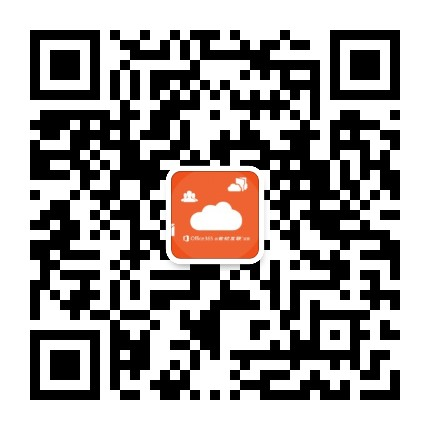
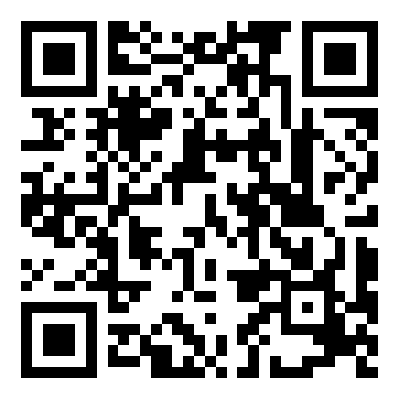
Release v0.1.7: refresh account wording and privacy assets

diff --git a/src/M365Tool.UI/Assets/privacy.html b/src/M365Tool.UI/Assets/privacy.html
@@ -312,7 +312,7 @@
         <div class="eyebrow">Privacy Policy</div>
         <h1>隐私政策</h1>
         <p class="subtitle">本政策说明 21Vianet Office工具箱在账户验证、本地配置、WebView2 登录会话、日志和诊断信息方面的数据处理方式。我们坚持本地处理、最小必要和用户可控原则。</p>
-        <div class="updated">最后更新日期：2026 年 5 月 29 日</div>
+        <div class="updated">最后更新日期：2026 年 11 月 6 日</div>
       </div>
     </div>
 
@@ -323,7 +323,7 @@
           <li><a href="#overview">概述</a></li>
           <li><a href="#principles">一般原则</a></li>
           <li><a href="#data-we-process">我们处理哪些信息</a></li>
-          <li><a href="#login-webview2">21V 账户验证与 WebView2 登录说明</a></li>
+          <li><a href="#login-webview2">由世纪互联运营的Microsoft 365账户验证与 WebView2 登录说明</a></li>
           <li><a href="#local-storage">本地配置与缓存</a></li>
           <li><a href="#logs">日志与诊断信息</a></li>
           <li><a href="#retention">数据保存位置与期限</a></li>
@@ -337,7 +337,7 @@
       <article class="content">
         <section id="overview">
           <h2>概述</h2>
-          <p>感谢您选择使用 21Vianet Office工具箱（以下简称“本工具”）。本工具是一款面向 21Vianet / 21V Microsoft 365 运维场景的 Windows 桌面工具，用于辅助完成 Microsoft 365 Apps 安装、Office 卸载、更新频道切换、激活痕迹清理、Teams 常见问题处理、Outlook 诊断以及相关本地维护操作。</p>
+          <p>感谢您选择使用 21Vianet Office工具箱（以下简称“本工具”）。本工具是一款面向由世纪互联运营的Microsoft 365运维场景的 Windows 桌面工具，用于辅助完成 Microsoft 365 Apps 安装、Office 卸载、更新频道切换、激活痕迹清理、Teams 常见问题处理、Outlook 诊断以及相关本地维护操作。</p>
           <p>我们深知账户信息、登录状态和本地诊断数据对您至关重要。本隐私政策旨在说明本工具在使用过程中会处理哪些信息、出于何种目的处理这些信息、信息保存在哪里，以及我们不会收集或保存哪些敏感信息。</p>
           <p>请您在使用本工具前仔细阅读本隐私政策。如您继续使用本工具，即表示您已了解并接受本政策中说明的数据处理方式。</p>
         </section>
@@ -347,7 +347,7 @@
           <h3>什么是个人信息？</h3>
           <p>个人信息是指以电子或者其他方式记录的，与已识别或者可识别的自然人有关的各种信息。本工具可能涉及的个人信息包括账号标识、显示名称、头像缓存信息、验证时间、本地配置状态以及您主动导出的诊断日志中可能包含的设备或软件运行信息。</p>
           <h3>什么是处理？</h3>
-          <p>“处理”是指对个人信息进行的收集、存储、使用、加工、传输、提供、删除等操作。本工具对相关信息的处理主要发生在用户本机，用于完成 21V 账户验证状态展示、本地功能访问判断、界面语言偏好保存以及工具运行诊断。</p>
+          <p>“处理”是指对个人信息进行的收集、存储、使用、加工、传输、提供、删除等操作。本工具对相关信息的处理主要发生在用户本机，用于完成由世纪互联运营的Microsoft 365账户验证状态展示、本地功能访问判断、界面语言偏好保存以及工具运行诊断。</p>
           <h3>谁负责本工具？</h3>
           <p>本工具由项目维护者维护并发布。</p>
         </section>
@@ -374,10 +374,10 @@
             </div>
           </div>
           <h3>账户验证状态信息</h3>
-          <p>为确认用户是否已完成 21V 账户验证，并用于在界面中展示当前登录状态，本工具可能会在本机用户配置目录中保存以下最小化验证状态信息：</p>
+          <p>为确认用户是否已完成由世纪互联运营的Microsoft 365账户验证，并用于在界面中展示当前登录状态，本工具可能会在本机用户配置目录中保存以下最小化验证状态信息：</p>
           <ul>
             <li>界面语言设置；</li>
-            <li>是否已完成 21V 验证；</li>
+            <li>是否已完成由世纪互联运营的Microsoft 365账户验证；</li>
             <li>上次验证账号；</li>
             <li>用户显示名称；</li>
             <li>头像缓存信息；</li>
@@ -387,14 +387,14 @@
         </section>
 
         <section id="login-webview2">
-          <h2>21V 账户验证与 WebView2 登录说明</h2>
-          <p>在登录过程中，用户输入的账号、密码、多因素认证信息或其他登录凭据均由 Microsoft 21V 官方登录页面处理。本工具不会读取、拦截、记录或保存用户密码。</p>
+          <h2>由世纪互联运营的Microsoft 365账户验证与 WebView2 登录说明</h2>
+          <p>在登录过程中，用户输入的账号、密码、多因素认证信息或其他登录凭据均由世纪互联运营的Microsoft 365官方登录页面处理。本工具不会读取、拦截、记录或保存用户密码。</p>
           <h3>WebView2 会话数据</h3>
           <p>登录过程中，WebView2 运行时会在当前 Windows 用户的临时目录中创建独立的浏览器用户数据目录，用于承载 Microsoft 登录页面所需的 cookie、缓存和站点存储数据。</p>
           <p>为降低会话残留风险，本工具会在每次登录前清理 WebView2 会话数据，并在登录窗口关闭后尝试删除该临时目录。</p>
           <p>由于 Windows 文件占用、WebView2 运行时状态或系统权限等原因，临时目录删除可能存在延迟或失败。如发生此类情况，相关数据仍位于当前 Windows 用户本机环境中，不会由本工具主动上传。</p>
           <h3>登录完成后的本地状态保存</h3>
-          <p>登录完成后，本工具仅保存最小化的验证状态信息，用于界面展示和本地功能访问判断。保存内容包括界面语言、是否已完成 21V 验证、上次验证账号、显示名称、头像缓存信息以及验证时间。</p>
+          <p>登录完成后，本工具仅保存最小化的验证状态信息，用于界面展示和本地功能访问判断。保存内容包括界面语言、是否已完成由世纪互联运营的Microsoft 365账户验证、上次验证账号、显示名称、头像缓存信息以及验证时间。</p>
           <p>该配置文件不包含用户密码、access token、refresh token 或 Microsoft 登录 cookie。</p>
         </section>
 
@@ -437,14 +437,14 @@
           <ul>
             <li>用户主动将日志、截图、配置文件或诊断结果发送给支持人员、管理员或第三方；</li>
             <li>用户主动通过邮件、即时通讯工具或其他渠道提交问题信息；</li>
-            <li>Microsoft 21V 官方登录页面在认证过程中根据其自身机制处理登录请求、认证状态、cookie 或其他登录相关信息。</li>
+            <li>由世纪互联运营的Microsoft 365官方登录页面在认证过程中根据其自身机制处理登录请求、认证状态、cookie 或其他登录相关信息。</li>
           </ul>
-          <p>对于 Microsoft 21V 官方登录页面处理的数据，本工具无法控制其处理方式。相关数据处理应以 Microsoft 及 21Vianet 对应服务的隐私政策、服务条款和组织管理策略为准。</p>
+          <p>对于由世纪互联运营的Microsoft 365官方登录页面处理的数据，本工具无法控制其处理方式。相关数据处理应以 Microsoft 及世纪互联相关服务的隐私政策、服务条款和组织管理策略为准。</p>
         </section>
 
         <section id="security">
           <h2>数据安全</h2>
-          <p>本工具采取最小化保存和本地处理的方式，减少不必要的数据收集和传输。对于登录验证相关流程，本工具通过 Microsoft 21V 官方登录页面完成认证，不自行处理用户密码。</p>
+          <p>本工具采取最小化保存和本地处理的方式，减少不必要的数据收集和传输。对于登录验证相关流程，本工具通过由世纪互联运营的Microsoft 365官方登录页面完成认证，不自行处理用户密码。</p>
           <p>本工具会在登录前清理 WebView2 会话数据，并在登录窗口关闭后尝试删除登录过程中创建的临时浏览器用户数据目录，以降低 cookie、缓存和站点存储残留风险。</p>
           <p>但请注意，任何本地软件运行环境都可能受到操作系统权限、恶意软件、终端安全策略、文件占用、用户误操作或第三方工具影响。建议用户仅从可信来源下载本工具，并在受控测试环境中验证后再用于生产设备。</p>
         </section>

diff --git a/src/M365Tool.UI/WorkbenchSettingsControl.cs b/src/M365Tool.UI/WorkbenchSettingsControl.cs
@@ -262,8 +262,8 @@ namespace Office365CleanupTool
                 $"当前实际界面语言：{GetLanguageDisplay(LocalizationService.ResolveLanguage(_settings.LanguageMode))}",
                 $"Current UI language: {GetLanguageDisplay(LocalizationService.ResolveLanguage(_settings.LanguageMode))}");
             _lblValidationState.Text = T(
-                _settings.HasCurrentVerification ? "21V 门户验证：已通过" : "21V 门户验证：未通过",
-                _settings.HasCurrentVerification ? "21V verification: Passed" : "21V verification: Not passed");
+                _settings.HasCurrentVerification ? "账户验证：已通过" : "账户验证：未通过",
+                _settings.HasCurrentVerification ? "Account verification: Passed" : "Account verification: Not passed");
             WorkbenchUi.ApplyStatusStyle(
                 _lblValidationState,
                 _settings.HasCurrentVerification ? WorkbenchTone.Success : WorkbenchTone.Warning);
@@ -286,8 +286,8 @@ namespace Office365CleanupTool
                 "This tool is built for 21Vianet Microsoft 365 operations. Sign-in verification and local logs are used only to provide tool features, troubleshooting, and support.");
             _btnOpenPrivacyPolicy.Text = T("查看完整隐私政策", "View Full Privacy Policy");
             _lblPrivacyContent.Text = T(
-                "我们可能处理的信息：\r\n• 21V 账户登录验证状态、显示名、账号标识和头像缓存，用于显示登录状态和限制未登录功能。\r\n• 工具配置、安装/卸载/修复/诊断执行日志和返回码，用于本机排障、结果查看和支持工单。\r\n• 二维码反馈或技术支持中由你主动提交的信息。\r\n\r\n数据使用原则：\r\n• 本工具不出售个人信息，不进行画像或自动化决策。\r\n• 头像、设置和日志优先保存在本机用户目录；除你主动提交反馈或工单外，工具不会主动上传日志内容。\r\n• 你可以通过注销、清理缓存或删除本机日志目录来移除本地保存的账号状态和执行记录。",
-                "Information this tool may process:\r\n• 21V account verification state, display name, account identifier, and avatar cache for sign-in status and feature gating.\r\n• Tool settings, install/uninstall/repair/diagnostic logs, and exit codes for local troubleshooting, result review, and support tickets.\r\n• Information you voluntarily submit through QR-code feedback or technical support.\r\n\r\nData use principles:\r\n• This tool does not sell personal information, build profiles, or make automated decisions.\r\n• Avatars, settings, and logs are stored locally in the user profile by default. The tool does not actively upload logs unless you submit feedback or a support ticket.\r\n• You can sign out, clear cache, or delete the local log folder to remove locally stored account state and execution records.");
+                "我们可能处理的信息：\r\n• 由世纪互联运营的Microsoft365账户登录验证状态、显示名、账号标识和头像缓存，用于显示登录状态和限制未登录功能。\r\n• 工具配置、安装/卸载/修复/诊断执行日志和返回码，用于本机排障、结果查看和支持工单。\r\n• 二维码反馈或技术支持中由你主动提交的信息。\r\n\r\n数据使用原则：\r\n• 本工具不出售个人信息，不进行画像或自动化决策。\r\n• 头像、设置和日志优先保存在本机用户目录；除你主动提交反馈或工单外，工具不会主动上传日志内容。\r\n• 你可以通过注销、清理缓存或删除本机日志目录来移除本地保存的账号状态和执行记录。",
+                "Information this tool may process:\r\n• Microsoft 365 China account sign-in verification state, display name, account identifier, and avatar cache for sign-in status and feature gating.\r\n• Tool settings, install/uninstall/repair/diagnostic logs, and exit codes for local troubleshooting, result review, and support tickets.\r\n• Information you voluntarily submit through QR-code feedback or technical support.\r\n\r\nData use principles:\r\n• This tool does not sell personal information, build profiles, or make automated decisions.\r\n• Avatars, settings, and logs are stored locally in the user profile by default. The tool does not actively upload logs unless you submit feedback or a support ticket.\r\n• You can sign out, clear cache, or delete the local log folder to remove locally stored account state and execution records.");
             BindLanguageModeOptions();
             LayoutControls();
         }

diff --git a/src/M365Tool.UI/WorkbenchForm.cs b/src/M365Tool.UI/WorkbenchForm.cs
@@ -140,7 +140,7 @@ namespace Office365CleanupTool
             _brandPanel.Paint += (_, e) => PaintBrandLogo(e.Graphics, _brandPanel.ClientRectangle);
             _lblBrandGlyph = new Label
             {
-                Text = "21V",
+                Text = "365",
                 Font = WorkbenchUi.CreateFont("Segoe UI", 23F, FontStyle.Bold),
                 ForeColor = WorkbenchUi.PrimaryColor,
                 BackColor = Color.Transparent,
@@ -186,7 +186,7 @@ namespace Office365CleanupTool
 
             _lblAppSubtitle = new Label
             {
-                Text = "21Vianet Office 运维工具",
+                Text = "21Vianet",
                 Font = WorkbenchUi.CreateUiFont(8.4F),
                 ForeColor = Color.FromArgb(106, 124, 148),
                 BackColor = Color.Transparent,
@@ -513,12 +513,11 @@ namespace Office365CleanupTool
         private void ApplyLanguage()
         {
             Text = "21Vianet Office工具箱";
-            _lblBrandGlyph.Text = "21V";
+            _lblBrandGlyph.Text = "365";
             _lblAppTitle.Text = "Office 工具箱";
-            _lblAppSubtitle.Text = T("21Vianet Office 运维工具", "21Vianet Office Toolbox");
             _btnSignIn.Text = T("登录", "Sign in");
             _btnSignOut.Text = T("注销", "Sign out");
-            _navToolTip.SetToolTip(_btnSignIn, T("登录并验证 21V 账户", "Sign in and verify 21V account"));
+            _navToolTip.SetToolTip(_btnSignIn, T("登录并验证账户", "Sign in and verify your account"));
             _navToolTip.SetToolTip(_btnSignOut, T("注销并重置当前验证状态", "Sign out and reset current verification state"));
             UpdateHeaderAccountPresentation();
 
@@ -942,7 +941,6 @@ namespace Office365CleanupTool
             WorkbenchUi.ApplyUiFont(_lblAppSubtitle, 8.5F, FontStyle.Regular, scale);
             _lblAppTitle.SetBounds(S(48), 0, S(124), S(24));
             _lblAppSubtitle.SetBounds(S(49), S(24), S(100), S(18));
-            _lblAppSubtitle.Text = "21Vianet";
             string[] order = { "home", "install", "uninstall", "channel", "repair", "teams", "outlook", "settings" };
             int[] tops = { 122, 222, 270, 318, 420, 468, 516 };
             for (int i = 0; i < order.Length; i++)
@@ -986,7 +984,7 @@ namespace Office365CleanupTool
             {
                 key = "home";
                 MessageBox.Show(
-                    T("请先点击右上角“登录”完成 21V 账户验证，再使用其他功能。", "Click Sign in at the top right to complete 21V account verification before using other pages."),
+                    T("请先点击右上角“登录”完成账户验证，再使用其他功能。", "Click Sign in at the top right to complete account verification before using other pages."),
                     T("访问受限", "Access Restricted"),
                     MessageBoxButtons.OK,
                     MessageBoxIcon.Information);
@@ -1125,7 +1123,7 @@ namespace Office365CleanupTool
             _lblAccountName.Text = isVerified && !string.IsNullOrWhiteSpace(userName)
                 ? userName : T("未登录", "Not signed in");
             _lblAccountName.ForeColor = WorkbenchUi.PrimaryTextColor;
-            _lblAccountState.Text = isVerified ? T("●  21V 已验证", "●  21V verified") : T("登录以使用全部功能", "Sign in to access all tools");
+            _lblAccountState.Text = isVerified ? T("●  已验证", "●  Verified") : T("登录以使用全部功能", "Sign in to access all tools");
             _lblAccountState.Visible = true;
             _lblAccountState.ForeColor = isVerified ? WorkbenchUi.SuccessColor : WorkbenchUi.SecondaryTextColor;
             UpdateAccountAvatar(userName);
@@ -1660,7 +1658,7 @@ namespace Office365CleanupTool
             }
 
             DialogResult confirm = MessageBox.Show(
-                T("注销将重置当前 21V 账户验证状态。是否继续？", "Signing out will reset the current 21V account verification state. Continue?"),
+                T("注销将重置当前账户验证状态。是否继续？", "Signing out will reset the current account verification state. Continue?"),
                 T("确认注销", "Confirm Sign out"),
                 MessageBoxButtons.YesNo,
                 MessageBoxIcon.Question);

diff --git a/src/M365Tool.UI/MyAccountLoginVerificationForm.cs b/src/M365Tool.UI/MyAccountLoginVerificationForm.cs
@@ -100,7 +100,7 @@ namespace Office365CleanupTool
             _statusLabel = new Label
             {
                 Dock = DockStyle.Fill,
-                Text = T("正在初始化 21V 登录页面...", "Initializing 21V sign-in page..."),
+                Text = T("正在初始化登录页面...", "Initializing sign-in page..."),
                 TextAlign = ContentAlignment.MiddleCenter,
                 Font = WorkbenchUi.CreateUiFont(11F),
                 ForeColor = Color.FromArgb(86, 105, 130),
@@ -201,12 +201,12 @@ namespace Office365CleanupTool
 
             try
             {
-                SetStatus(T("正在初始化 21V 登录页面...", "Initializing 21V sign-in page..."));
+                SetStatus(T("正在初始化登录页面...", "Initializing sign-in page..."));
                 StartNavigationWatchdog(SignInPageLoadTimeoutMs);
                 await PrepareAsync();
                 if (IsDisposed || Disposing) return;
 
-                SetStatus(T("正在打开 21V 登录页面...", "Opening 21V sign-in page..."));
+                SetStatus(T("正在打开登录页面...", "Opening sign-in page..."));
                 RecordLoadTiming("navigation-requested");
                 _webView.CoreWebView2.Navigate(MyAccountUrl);
                 StartNavigationWatchdog(SignInPageLoadTimeoutMs);
@@ -229,7 +229,7 @@ namespace Office365CleanupTool
             {
                 if (IsDisposed || Disposing) return;
                 MessageBox.Show(
-                    T("无法打开 21V 登录页面：" + ex.Message, "Unable to open 21V sign-in page: " + ex.Message),
+                    T("无法打开登录页面：" + ex.Message, "Unable to open sign-in page: " + ex.Message),
                     T("打开失败", "Open Failed"),
                     MessageBoxButtons.OK,
                     MessageBoxIcon.Error);
@@ -269,7 +269,7 @@ namespace Office365CleanupTool
                 StartNavigationWatchdog(SignInPageLoadTimeoutMs);
                 SetStatus(IsVerificationHost(target) && _hasReturnedFromChinaSignIn
                     ? T("正在确认登录结果...", "Confirming sign-in...")
-                    : T("正在连接 21V 验证服务...", "Connecting to 21V sign-in..."));
+                    : T("正在连接登录验证服务...", "Connecting to the sign-in service..."));
                 if (_hasReturnedFromChinaSignIn && IsVerificationHost(target))
                     this.BeginInvokeWhenReady(() => _ = TryMarkVerifiedAsync(target));
             };
@@ -308,7 +308,7 @@ namespace Office365CleanupTool
                     }
                     else
                     {
-                        SetStatus(T("21V 登录页面加载中...", "Loading 21V sign-in page..."));
+                        SetStatus(T("登录页面加载中...", "Loading sign-in page..."));
                     }
 
                     StartNavigationWatchdog(SignInPageLoadTimeoutMs);
@@ -374,8 +374,8 @@ namespace Office365CleanupTool
 
             MessageBox.Show(
                 T(
-                    $"21V 登录页面暂时未加载出来。\r\n\r\n{detail}\r\n\r\n诊断信息：\r\n{await CollectWebViewDiagnosticsAsync()}",
-                    $"The 21V sign-in page did not load.\r\n\r\n{detail}\r\n\r\nDiagnostics:\r\n{await CollectWebViewDiagnosticsAsync()}"),
+                    $"登录页面暂时未加载出来。\r\n\r\n{detail}\r\n\r\n诊断信息：\r\n{await CollectWebViewDiagnosticsAsync()}",
+                    $"The sign-in page did not load.\r\n\r\n{detail}\r\n\r\nDiagnostics:\r\n{await CollectWebViewDiagnosticsAsync()}"),
                 T("登录页加载超时", "Sign-in Page Timeout"),
                 MessageBoxButtons.OK,
                 MessageBoxIcon.Warning);

diff --git a/src/M365Tool.UI/Services/AccountVerificationService.cs b/src/M365Tool.UI/Services/AccountVerificationService.cs
@@ -65,7 +65,7 @@ namespace Office365CleanupTool.Services
                     Is21VAccount = true,
                     CloudKind = AccountCloudKind.China21V,
                     Account = trimmed,
-                    Diagnostic = T(language, "账号已通过 21V 云端点验证。", "Account validated against 21V cloud endpoint.")
+                    Diagnostic = T(language, "账号已通过 中国区云端点验证。", "Account validated against China cloud endpoint.")
                 };
             }
 
@@ -77,7 +77,7 @@ namespace Office365CleanupTool.Services
                     Is21VAccount = false,
                     CloudKind = AccountCloudKind.Global,
                     Account = trimmed,
-                    Diagnostic = T(language, "账号可在全球版端点解析，未识别为 21V 账号。", "Account resolved on global endpoint and is not recognized as 21V.")
+                    Diagnostic = T(language, "账号可在全球版端点解析，未识别为由世纪互联运营的 Microsoft 365 账号。", "Account resolved on global endpoint and is not recognized as a Microsoft 365 China account.")
                 };
             }
 

diff --git a/tests/M365Tool.Application.Tests/UiLayoutRegressionTests.cs b/tests/M365Tool.Application.Tests/UiLayoutRegressionTests.cs
@@ -205,7 +205,7 @@ public class UiLayoutRegressionTests
     {
         using var dialog = new MyAccountLoginVerificationForm(UiLanguage.English);
         var status = (Label)typeof(MyAccountLoginVerificationForm).GetField("_statusLabel", BindingFlags.Instance | BindingFlags.NonPublic)!.GetValue(dialog)!;
-        Assert.Equal("Initializing 21V sign-in page...", status.Text);
+        Assert.Equal("Initializing sign-in page...", status.Text);
     });
 
     [Theory]

diff --git a/README.md b/README.md
@@ -1,14 +1,14 @@
 # 21Vianet Office工具箱
 
-21Vianet Office工具箱是一款面向 21Vianet / 21V Microsoft 365 运维场景的 Windows 桌面工具，用于辅助完成 Microsoft 365 Apps 安装、Office 卸载、更新频道切换、激活痕迹清理、Teams 常见问题处理和 Outlook 诊断等操作。
+21Vianet Office工具箱是一款面向 21Vianet Microsoft 365 运维场景的 Windows 桌面工具，用于辅助完成 Microsoft 365 Apps 安装、Office 卸载、更新频道切换、激活痕迹清理、Teams 常见问题处理和 Outlook 诊断等操作。
 
-> 重要说明：本项目仅适用于 21V 用户和 21V 相关 Microsoft 365 环境。工具内置了 21V 账户认证能力，并不适合作为全部 Microsoft 365 租户或环境的通用工具。
+> 重要说明：本项目仅适用于由世纪互联运营的 Microsoft 365 环境。工具内置了账户认证能力，并不适合作为全部 Microsoft 365 租户或环境的通用工具。
 >
 > 该工具会执行 Microsoft 365 管理和维护相关操作，请先在可控测试环境中验证，再用于生产设备。
 
 ## English Summary
 
-21Vianet Office Toolbox is a Windows desktop utility for Microsoft 365 operations in 21Vianet / 21V environments. It includes 21V account verification and is not intended to be a general-purpose tool for all Microsoft 365 tenants.
+21Vianet Office Toolbox is a Windows desktop utility for Microsoft 365 operations in 21Vianet environments. It verifies Microsoft 365 China accounts and is not intended to be a general-purpose tool for all Microsoft 365 tenants.
 
 ## 功能模块
 
@@ -19,14 +19,14 @@
 - **Teams 工具**：处理 Teams 缓存、登录记录和常见客户端配置异常。
 - **Outlook 工具**：执行 Outlook 扫描、诊断、日历检查和日志导出。
 - **双语界面**：支持简体中文和英文界面。
-- **访问控制**：除首页外的受限功能需要通过 21V 账户验证后使用。
+- **访问控制**：除首页外的受限功能需要通过账户验证后使用。
 
 ## 运行要求
 
 - Windows 10/11
 - 启动工具需要管理员权限，请右键选择“以管理员身份运行”
 - 需要访问 Microsoft 相关网络端点，用于验证、安装和诊断
-- 21V 账户验证窗口需要 Microsoft Edge WebView2 Runtime
+- 账户验证窗口需要 Microsoft Edge WebView2 Runtime
 
 单文件自包含测试版已包含 .NET 运行时；如果系统未安装 WebView2，仍可能需要额外安装 WebView2 Runtime。
 
@@ -34,9 +34,9 @@
 
 可以在 GitHub Release 页面下载单文件版：
 
-[下载 21Vianet Office工具箱 v0.1.6](https://github.com/terry-sys/M365Tool/releases/tag/v0.1.6)
+[下载 21Vianet Office工具箱 v0.1.7](https://github.com/terry-sys/M365Tool/releases/tag/v0.1.7)
 
-下载 `21VianetOfficeToolbox-portable-win-x64-v0.1.6.exe` 后直接运行即可；也可以下载同名 `.zip` 压缩包。
+下载 `21VianetOfficeToolbox-portable-win-x64-v0.1.7.exe` 后直接运行即可；也可以下载同名 `.zip` 压缩包。
 
 本次更新见 [CHANGELOG.md](CHANGELOG.md)。单文件版包含 .NET 8 运行时；EXE 尚未进行代码签名，Windows 可能显示“未知发布者”。
 
@@ -53,8 +53,7 @@ dotnet publish src/M365Tool.UI/M365Tool.csproj -c Release -r win-x64 --self-cont
 
 ## 使用注意事项
 
-- 本工具面向 21V 场景，需要完成 21V 账户验证。
-- 本工具不适用于 21V 以外的通用 Microsoft 365 环境。
+- 本工具面向由世纪互联运营的 Microsoft 365 环境，使用受限功能前需完成账户验证。
 - 执行会修改本地状态的操作前，建议先关闭 Office、Teams 和 Outlook。
 - 安装前请先查看预检查结果。
 - 测试失败时请保留导出的日志，便于后续排查。

diff --git a/CHANGELOG.md b/CHANGELOG.md
@@ -1,5 +1,11 @@
 # 更新记录
 
+## v0.1.7 — 2026-11-06
+
+- 登录成功后显示「已验证」，清理中英文界面中的旧简称，保留完整品牌名「21Vianet」。
+- 更新关于页的反馈与技术支持二维码。
+- 更新完整隐私政策及关于页的账户信息说明。
+
 ## v0.1.6 — 2026-11-02
 
 - 更新为统一的 Office 运维工作台布局，调整中英文排版、侧栏、账户区域、功能图标和下拉框辨识度，采用工具箱与星星应用图标。
